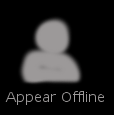
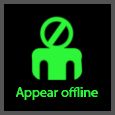
Changes for upcoming release, added and updated images.

diff --git a/F16Gaming.SwitchBladeSteam.App/Properties/Resources.Designer.cs b/F16Gaming.SwitchBladeSteam.App/Properties/Resources.Designer.cs
@@ -1,7 +1,7 @@
 //------------------------------------------------------------------------------
 // <auto-generated>
 //     This code was generated by a tool.
-//     Runtime Version:4.0.30319.17929
+//     Runtime Version:4.0.30319.18034
 //
 //     Changes to this file may cause incorrect behavior and will be lost if
 //     the code is regenerated.
@@ -73,9 +73,29 @@ namespace F16Gaming.SwitchBladeSteam.App.Properties {
         /// <summary>
         ///   Looks up a localized resource of type System.Drawing.Bitmap.
         /// </summary>
+        internal static System.Drawing.Bitmap dk_appear_offline_down {
+            get {
+                object obj = ResourceManager.GetObject("dk_appear_offline_down", resourceCulture);
+                return ((System.Drawing.Bitmap)(obj));
+            }
+        }
+        
+        /// <summary>
+        ///   Looks up a localized resource of type System.Drawing.Bitmap.
+        /// </summary>
         internal static System.Drawing.Bitmap dk_appear_online {
             get {
                 object obj = ResourceManager.GetObject("dk_appear_online", resourceCulture);
+                return ((System.Drawing.Bitmap)(obj));
+            }
+        }
+        
+        /// <summary>
+        ///   Looks up a localized resource of type System.Drawing.Bitmap.
+        /// </summary>
+        internal static System.Drawing.Bitmap dk_appear_online_down {
+            get {
+                object obj = ResourceManager.GetObject("dk_appear_online_down", resourceCulture);
                 return ((System.Drawing.Bitmap)(obj));
             }
         }
@@ -93,9 +113,29 @@ namespace F16Gaming.SwitchBladeSteam.App.Properties {
         /// <summary>
         ///   Looks up a localized resource of type System.Drawing.Bitmap.
         /// </summary>
+        internal static System.Drawing.Bitmap dk_friends_down {
+            get {
+                object obj = ResourceManager.GetObject("dk_friends_down", resourceCulture);
+                return ((System.Drawing.Bitmap)(obj));
+            }
+        }
+        
+        /// <summary>
+        ///   Looks up a localized resource of type System.Drawing.Bitmap.
+        /// </summary>
         internal static System.Drawing.Bitmap dk_home {
             get {
                 object obj = ResourceManager.GetObject("dk_home", resourceCulture);
+                return ((System.Drawing.Bitmap)(obj));
+            }
+        }
+        
+        /// <summary>
+        ///   Looks up a localized resource of type System.Drawing.Bitmap.
+        /// </summary>
+        internal static System.Drawing.Bitmap dk_home_down {
+            get {
+                object obj = ResourceManager.GetObject("dk_home_down", resourceCulture);
                 return ((System.Drawing.Bitmap)(obj));
             }
         }

diff --git a/F16Gaming.SwitchBladeSteam.App/Program.cs b/F16Gaming.SwitchBladeSteam.App/Program.cs
@@ -46,16 +46,11 @@ using LogManager = F16Gaming.SwitchBladeSteam.Logging.LogManager;
 
 namespace F16Gaming.SwitchBladeSteam.App
 {
-	internal class DynamicKeyOptions
+	internal struct DynamicKeyOptions
 	{
-		public readonly string Image;
-		public readonly DynamicKeyPressedEventHandler Callback;
-
-		internal DynamicKeyOptions(string image, DynamicKeyPressedEventHandler callback)
-		{
-			Image = image;
-			Callback = callback;
-		}
+		public string Image;
+		public string DownImage;
+		public DynamicKeyPressedEventHandler Callback;
 	}
 
 	public static class Program
@@ -120,10 +115,38 @@ namespace F16Gaming.SwitchBladeSteam.App
 #if RAZER_ENABLED
 			_dynamicKeyHandlers = new Dictionary<RazerAPI.RZDYNAMICKEY, DynamicKeyOptions>
 			{
-				{RazerAPI.RZDYNAMICKEY.DK1, new DynamicKeyOptions(@"res\images\dk_home.png", HomeKeyPressed)},
-				{RazerAPI.RZDYNAMICKEY.DK2, new DynamicKeyOptions(@"res\images\dk_friends.png", FriendKeyPressed)},
-				{RazerAPI.RZDYNAMICKEY.DK6, new DynamicKeyOptions(@"res\images\dk_appear_online.png", OnlineKeyPressed)},
-				{RazerAPI.RZDYNAMICKEY.DK7, new DynamicKeyOptions(@"res\images\dk_appear_offline.png", OfflineKeyPressed)}
+				{
+					RazerAPI.RZDYNAMICKEY.DK1, new DynamicKeyOptions
+					{
+						Image = @"res\images\dk_home.png",
+						DownImage = @"res\images\dk_home_down.png",
+						Callback = HomeKeyPressed
+					}
+				},
+				{
+					RazerAPI.RZDYNAMICKEY.DK2, new DynamicKeyOptions
+					{
+						Image = @"res\images\dk_friends.png",
+						DownImage = @"res\images\dk_friends_down.png",
+						Callback = FriendKeyPressed
+					}
+				},
+				{
+					RazerAPI.RZDYNAMICKEY.DK6, new DynamicKeyOptions
+					{	
+						Image = @"res\images\dk_appear_online.png",
+						DownImage = @"res\images\dk_appear_online_down.png",
+						Callback = OnlineKeyPressed
+					}
+				},
+				{
+					RazerAPI.RZDYNAMICKEY.DK7, new DynamicKeyOptions
+					{
+						Image = @"res\images\dk_appear_offline.png",
+						DownImage = @"res\images\dk_appear_offline_down.png",
+						Callback = OfflineKeyPressed
+					}
+				}
 			};
 
 			try
@@ -155,7 +178,7 @@ namespace F16Gaming.SwitchBladeSteam.App
 			_log.Info("Enabling dynamic keys");
 			
 			foreach (KeyValuePair<RazerAPI.RZDYNAMICKEY, DynamicKeyOptions> pair in _dynamicKeyHandlers)
-				_razerManager.EnableDynamicKey(pair.Key, pair.Value.Callback, pair.Value.Image);
+				_razerManager.EnableDynamicKey(pair.Key, pair.Value.Callback, pair.Value.Image, pair.Value.DownImage);
 #else
 			MessageBox.Show(
 				"RAZER_ENABLED is not defined, application will not interface with any SwitchBlade capable devices. Running on desktop only.",

diff --git a/F16Gaming.SwitchBladeSteam.App/KeyDebugWindow.cs b/F16Gaming.SwitchBladeSteam.App/KeyDebugWindow.cs
@@ -29,6 +29,7 @@
 
 using System;
 using System.Windows.Forms;
+using F16Gaming.SwitchBladeSteam.App.Properties;
 
 namespace F16Gaming.SwitchBladeSteam.App
 {
@@ -37,6 +38,14 @@ namespace F16Gaming.SwitchBladeSteam.App
 		public KeyDebugWindow()
 		{
 			InitializeComponent();
+			HomeButton.MouseDown += HomeButtonMouseDown;
+			HomeButton.MouseUp += HomeButtonMouseUp;
+			FriendsButton.MouseDown += FriendsButtonMouseDown;
+			FriendsButton.MouseUp += FriendsButtonMouseUp;
+			OnlineButton.MouseDown += OnlineButtonMouseDown;
+			OnlineButton.MouseUp += OnlineButtonMouseUp;
+			OfflineButton.MouseDown += OfflineButtonMouseDown;
+			OfflineButton.MouseUp += OfflineButtonMouseUp;
 		}
 
 		private void HomeButtonClick(object sender, EventArgs e)
@@ -46,11 +55,31 @@ namespace F16Gaming.SwitchBladeSteam.App
 #endif
 		}
 
+		private void HomeButtonMouseDown(object sender, EventArgs e)
+		{
+			HomeButton.Image = Resources.dk_home_down;
+		}
+
+		private void HomeButtonMouseUp(object sender, EventArgs e)
+		{
+			HomeButton.Image = Resources.dk_home;
+		}
+
 		private void FriendsButtonClick(object sender, EventArgs e)
 		{
 #if DEBUG
 			Program.DebugFriendsButton();
 #endif
+		}
+
+		private void FriendsButtonMouseDown(object sender, EventArgs e)
+		{
+			FriendsButton.Image = Resources.dk_friends_down;
+		}
+
+		private void FriendsButtonMouseUp(object sender, EventArgs e)
+		{
+			FriendsButton.Image = Resources.dk_friends;
 		}
 
 		private void OnlineButtonClick(object sender, EventArgs e)
@@ -60,11 +89,31 @@ namespace F16Gaming.SwitchBladeSteam.App
 #endif
 		}
 
+		private void OnlineButtonMouseDown(object sender, EventArgs e)
+		{
+			OnlineButton.Image = Resources.dk_appear_online_down;
+		}
+
+		private void OnlineButtonMouseUp(object sender, EventArgs e)
+		{
+			OnlineButton.Image = Resources.dk_appear_online;
+		}
+
 		private void OfflineButtonClick(object sender, EventArgs e)
 		{
 #if DEBUG
 			Program.DebugOfflineButton();
 #endif
+		}
+
+		private void OfflineButtonMouseDown(object sender, EventArgs e)
+		{
+			OfflineButton.Image = Resources.dk_appear_offline_down;
+		}
+
+		private void OfflineButtonMouseUp(object sender, EventArgs e)
+		{
+			OfflineButton.Image = Resources.dk_appear_offline;
 		}
 	}
 }

diff --git a/F16Gaming.SwitchBladeSteam.App/ChatWindow.cs b/F16Gaming.SwitchBladeSteam.App/ChatWindow.cs
@@ -72,11 +72,11 @@ namespace F16Gaming.SwitchBladeSteam.App
 
 		private void EntryBoxKeyDown(object sender, KeyEventArgs e)
 		{
-			_log.Debug(">> EntryBoxKeyDown([sender], [e])");
+			//_log.Debug(">> EntryBoxKeyDown([sender], [e])");
 			if (e.KeyCode != Keys.Enter || string.IsNullOrEmpty(EntryBox.Text))
 			{
 				EntryBox.Invalidate();
-				_log.Debug("<< EntryBoxKeyDown()");
+				//_log.Debug("<< EntryBoxKeyDown()");
 				return;
 			}
 
@@ -86,15 +86,15 @@ namespace F16Gaming.SwitchBladeSteam.App
 			_friend.SendMessage(message + "\0");
 			EntryBox.Clear();
 			EntryBox.Invalidate();
-			_log.Debug("<< EntryBoxKeyDown()");
+			//_log.Debug("<< EntryBoxKeyDown()");
 		}
 
 		private void EntryBoxTextChanged(object sender, EventArgs e)
 		{
-			_log.Debug(">> EntryBoxTextChanged([sender], [e])");
+			//_log.Debug(">> EntryBoxTextChanged([sender], [e])");
 			EntryBox.Text = EntryBox.Text.TrimStart('\n', '\r', ' ');
 			EntryBox.Invalidate();
-			_log.Debug("<< EntryBoxTextChanged()");
+			//_log.Debug("<< EntryBoxTextChanged()");
 		}
 
 		private void WriteChatMessage(CSteamID sender, string message)

diff --git a/F16Gaming.SwitchBladeSteam.App/Properties/AssemblyInfo.cs b/F16Gaming.SwitchBladeSteam.App/Properties/AssemblyInfo.cs
@@ -31,5 +31,5 @@ using System.Runtime.InteropServices;
 // You can specify all the values or you can default the Build and Revision Numbers 
 // by using the '*' as shown below:
 // [assembly: AssemblyVersion("1.0.*")]
-[assembly: AssemblyVersion("1.0.76.1331")]
-[assembly: AssemblyFileVersion("1.0.76.1331")]
+[assembly: AssemblyVersion("1.0.81.0151")]
+[assembly: AssemblyFileVersion("1.0.81.0151")]

diff --git a/F16Gaming.SwitchBladeSteam.Console/Properties/AssemblyInfo.cs b/F16Gaming.SwitchBladeSteam.Console/Properties/AssemblyInfo.cs
@@ -31,5 +31,5 @@ using System.Runtime.InteropServices;
 // You can specify all the values or you can default the Build and Revision Numbers 
 // by using the '*' as shown below:
 // [assembly: AssemblyVersion("1.0.*")]
-[assembly: AssemblyVersion("1.0.20.0332")]
-[assembly: AssemblyFileVersion("1.0.20.0332")]
+[assembly: AssemblyVersion("1.0.21.0151")]
+[assembly: AssemblyFileVersion("1.0.21.0151")]

diff --git a/F16Gaming.SwitchBladeSteam.Steam/Properties/AssemblyInfo.cs b/F16Gaming.SwitchBladeSteam.Steam/Properties/AssemblyInfo.cs
@@ -31,5 +31,5 @@ using System.Runtime.InteropServices;
 // You can specify all the values or you can default the Build and Revision Numbers 
 // by using the '*' as shown below:
 // [assembly: AssemblyVersion("1.0.*")]
-[assembly: AssemblyVersion("1.0.35.1331")]
-[assembly: AssemblyFileVersion("1.0.35.1331")]
+[assembly: AssemblyVersion("1.0.37.0151")]
+[assembly: AssemblyFileVersion("1.0.37.0151")]

diff --git a/F16Gaming.SwitchBladeSteam/Properties/AssemblyInfo.cs b/F16Gaming.SwitchBladeSteam/Properties/AssemblyInfo.cs
@@ -31,5 +31,5 @@ using System.Runtime.InteropServices;
 // You can specify all the values or you can default the Build and Revision Numbers 
 // by using the '*' as shown below:
 // [assembly: AssemblyVersion("1.0.*")]
-[assembly: AssemblyVersion("1.0.64.1310")]
-[assembly: AssemblyFileVersion("1.0.64.1310")]
+[assembly: AssemblyVersion("1.0.66.0151")]
+[assembly: AssemblyFileVersion("1.0.66.0151")]
